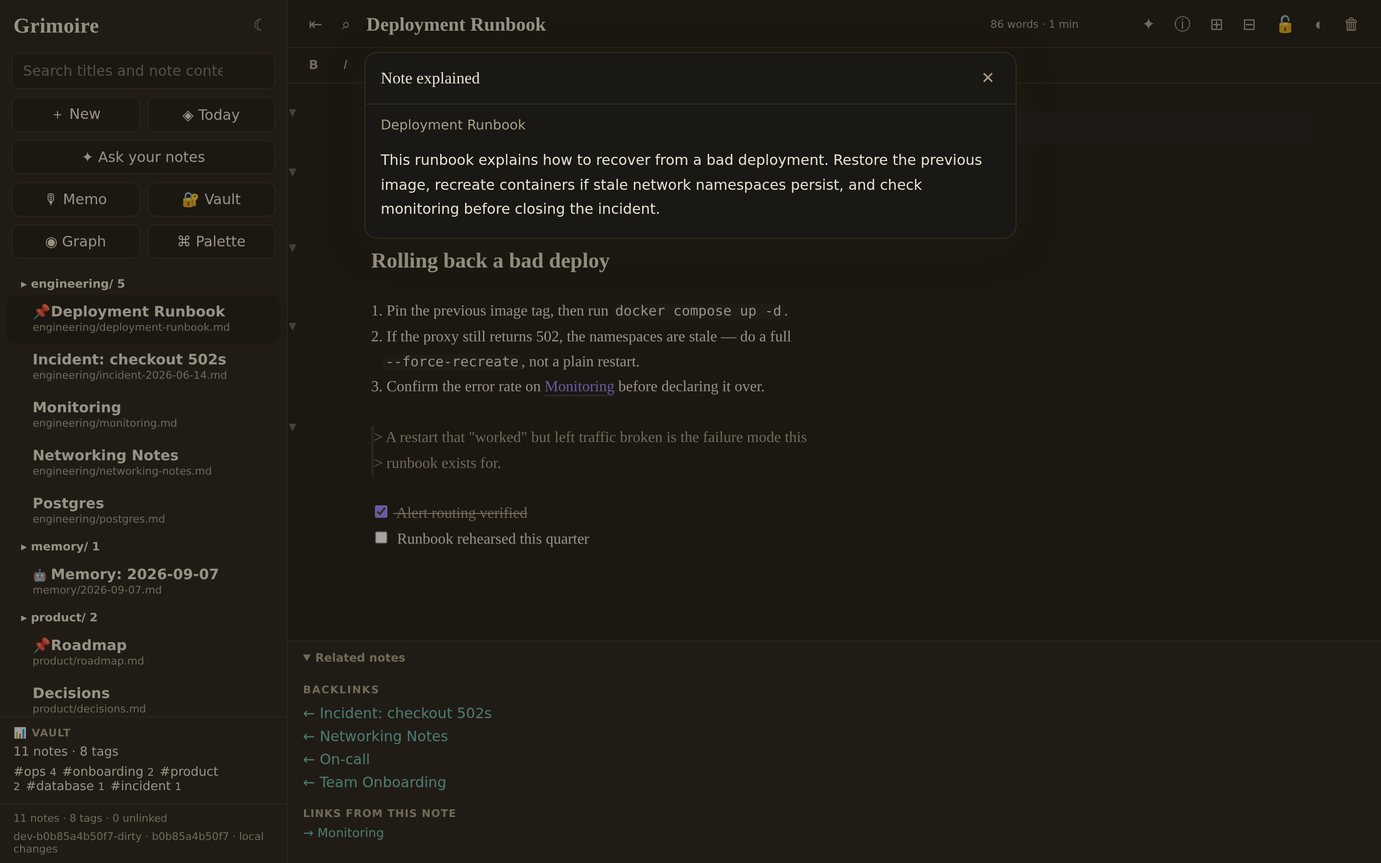
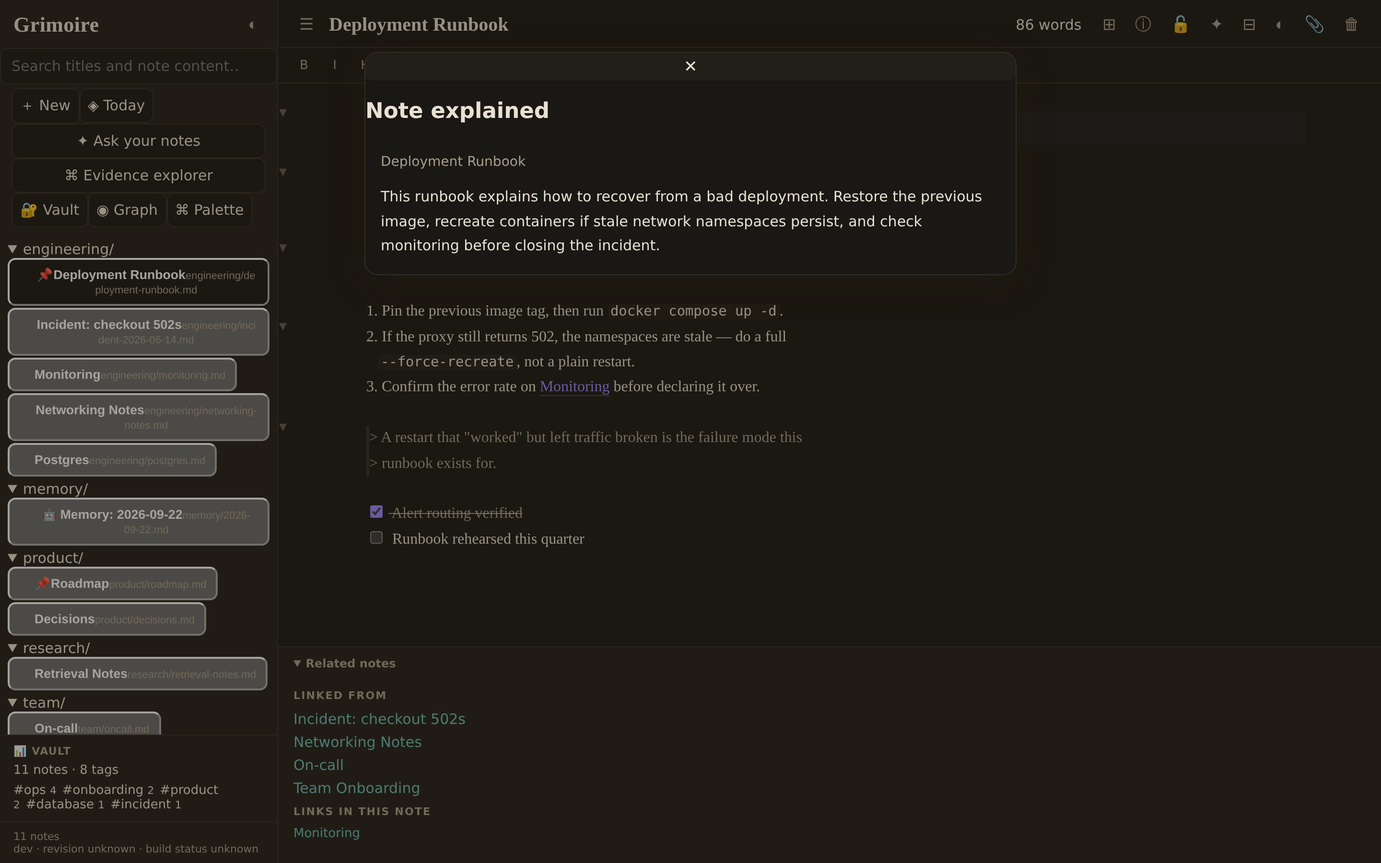
Publish the workspace refresh the live console has run since September 14
The refreshed sidebar (Workspace and Notes sections, Ctrl K on the
commands button, folder headings), the empty state, and the accessible
names on the search, list, rows and theme control existed only as an
uncommitted working copy while the deployed build already served them.
Ported onto main as they were, with the style test that came with them.

The release job now installs poppler-utils before the suite, as CI does;
the document extractor's PDF test needs pdftotext.

diff --git a/frontend/src/main.tsx b/frontend/src/main.tsx
@@ -9,6 +9,7 @@ import { KnowledgeExplorer } from './knowledge';
 import type { Canvas, Graph, Identity, JsonValue, KnowledgeGraph, KnowledgeNode, KnowledgeQueryResult, KnowledgeSource, Note, NoteListItem, SearchHit, Task, DocumentRecord } from './types';
 import '../../web/style.css';
 import './react.css';
+import './workspace.css';
 import {useNoteDocument} from './useNoteDocument';
 import {LiveEditor,type LiveAdapter} from './LiveEditor';
 import {Markdown as RichMarkdown} from './Markdown';
@@ -181,20 +182,20 @@ function App() {
   const deleteNote = async () => { if (!active) return; if(!await save())return; const r = await api.request<{ trashed: string }>(`/notes/${noteURLPath(active.path)}`, { method: 'DELETE' }); setActive(undefined); await refresh(); setError('Moved to trash'); setDeleted(r.trashed); };
   const askNotes = async (question: string, includePrivate: boolean) => api.request<{ answer: string; citations: { path: string; title: string; score?: number }[] }>('/ask', { method: 'POST', body: { q: question, include_private: includePrivate } });
   const runAiAction = async (action: string, text: string) => api.request<{ result?: string | string[]; error?: string }>('/actions', { method: 'POST', body: { action, text } });
-  const renderRows = (items: NoteListItem[]) => { const folders = new Map<string, NoteListItem[]>(); for (const n of items) { const f = n.path.includes('/') ? n.path.split('/')[0]! : ''; folders.set(f, [...(folders.get(f) || []), n]); } return [...folders].sort(([a], [b]) => a.localeCompare(b)).map(([folder, ns]) => folder ? <details className="folder" key={folder} open><summary>{folder}/</summary>{ns.map(n => <NoteRow n={n} key={n.path} active={active?.path === n.path} keyboard={visible[kbdIndex]?.path===n.path} open={open} split={path=>void api.note(path).then(setSplit).catch(e=>setError(String(e)))} context={setContextPath} />)}</details> : <div key="root">{ns.map(n => <NoteRow n={n} key={n.path} active={active?.path === n.path} keyboard={visible[kbdIndex]?.path===n.path} open={open} split={path=>void api.note(path).then(setSplit).catch(e=>setError(String(e)))} context={setContextPath} />)}</div>); };
+  const renderRows = (items: NoteListItem[]) => { const folders = new Map<string, NoteListItem[]>(); for (const n of items) { const f = n.path.includes('/') ? n.path.split('/')[0]! : ''; folders.set(f, [...(folders.get(f) || []), n]); } return [...folders].sort(([a], [b]) => a.localeCompare(b)).map(([folder, ns]) => folder ? <details className="folder" key={folder} open><summary className="folder-head">{folder}</summary>{ns.map(n => <NoteRow n={n} key={n.path} active={active?.path === n.path} keyboard={visible[kbdIndex]?.path===n.path} open={open} split={path=>void api.note(path).then(setSplit).catch(e=>setError(String(e)))} context={setContextPath} />)}</details> : <div key="root">{ns.map(n => <NoteRow n={n} key={n.path} active={active?.path === n.path} keyboard={visible[kbdIndex]?.path===n.path} open={open} split={path=>void api.note(path).then(setSplit).catch(e=>setError(String(e)))} context={setContextPath} />)}</div>); };
   if (identity?.anonymous) return <Login done={() => void api.me().then(me=>{setIdentity(me);void refresh();if(dirtyRef.current)void save();})} />;
   return <div id="app" className={'react-app'+(split?' split':'')+(sidebarCollapsed?' sidebar-collapsed':'')+(zen?' zen':'')} style={{'--side-w':sideWidth+'px','--main-w':mainWidth?mainWidth+'px':'1fr'} as React.CSSProperties}>{zen&&<button id="zen-exit" onClick={()=>setZen(false)}>Exit focus mode</button>}
-    <aside id="sidebar" className={mobileNav ? 'open' : ''}><header id="side-head"><h1>Grimoire</h1>{identity?.multi_user && <><span className="signin-who">{identity.name}</span><button id="signout" className="icon" aria-label="Sign out" onClick={() => void api.logout().then(() => api.me()).then(setIdentity).catch(e => setError(String(e)))}>⇥</button></>}<button id="menu-close" className="icon" aria-label="Close menu" onClick={() => setMobileNav(false)}>✕</button><button id="theme-toggle" className="icon" onClick={() => { const current = document.documentElement.dataset.theme; const next = current === 'light' ? 'dark' : current === 'dark' ? '' : 'light'; if (next) { document.documentElement.dataset.theme = next; localStorage.setItem('grimoire-theme', next); } else { delete document.documentElement.dataset.theme; localStorage.removeItem('grimoire-theme'); } }}>◐</button></header>
-      <div className="note-search"><input id="search" onKeyDown={e=>{if(e.key==='Escape'&&query){e.preventDefault();setQuery('');setKbdIndex(-1);return;}if(e.key==='Enter'&&visible.length){e.preventDefault();void open(visible[Math.max(0,kbdIndex)]!.path);}if(e.key==='ArrowDown'||e.key==='ArrowUp'){e.preventDefault();setKbdIndex(index=>Math.max(0,Math.min(visible.length-1,index+(e.key==='ArrowDown'?1:-1))));}}} value={query} onChange={e => {setKbdIndex(-1);setQuery(e.target.value);}} placeholder="Search titles and note content…" /><button id="search-clear" hidden={!query} onClick={() => setQuery('')}>✕</button></div>
-      <div className="side-actions"><button id="new-note" className="btn" onClick={() => setPanel('new')}>＋ New</button><button id="daily" className="btn" onClick={() => void openDaily()}>◈ Today</button><button id="ask-open" className="btn full" onClick={() => setPanel('ask')}>✦ Ask your notes</button><button id="knowledge-open" className="btn full" onClick={() => void openKnowledge()}>⌘ Evidence explorer</button><button id="vault-open" className="btn" onClick={() => setPanel('vault')}>🔐 Vault</button><button id="graph-open" className="btn" onClick={() => void openGraph()}>◉ Graph</button><button id="palette-open" className="btn" onClick={openPalette}>⌘ Palette</button></div>
-      {tagFilter && <div id="tag-filter-bar">#{tagFilter} <button id="clear-tag" onClick={() => setTagFilter('')}>Clear</button></div>}<nav id="note-list" onKeyDown={e=>{const rows=Array.from(e.currentTarget.querySelectorAll<HTMLButtonElement>('.note-row'));const index=rows.indexOf(e.target as HTMLButtonElement);if(e.key==='ArrowDown'||e.key==='ArrowUp'){e.preventDefault();rows[Math.max(0,Math.min(rows.length-1,index+(e.key==='ArrowDown'?1:-1)))]?.focus();}}}>{renderRows(visible)}</nav><PluginRuntime request={api.request} open={openWithPluginEvent} currentNote={() => { const note=activeRef.current; return note ? {path:note.path,title:note.title,body:note.body} : null; }} insertText={insertPluginText} toast={(message) => setError(message)} /><footer id="side-foot"><span id="stat">{notes.length} notes</span><div id="running-build">{buildLabel}</div></footer>
+    <aside id="sidebar" className={mobileNav ? 'open' : ''}><header id="side-head"><h1>Grimoire</h1>{identity?.multi_user && <><span className="signin-who">{identity.name}</span><button id="signout" className="icon" aria-label="Sign out" onClick={() => void api.logout().then(() => api.me()).then(setIdentity).catch(e => setError(String(e)))}>⇥</button></>}<button id="menu-close" className="icon" aria-label="Close menu" onClick={() => setMobileNav(false)}>✕</button><button id="theme-toggle" className="icon" aria-label="Change color theme" title="Change color theme" onClick={() => { const current = document.documentElement.dataset.theme; const next = current === 'light' ? 'dark' : current === 'dark' ? '' : 'light'; if (next) { document.documentElement.dataset.theme = next; localStorage.setItem('grimoire-theme', next); } else { delete document.documentElement.dataset.theme; localStorage.removeItem('grimoire-theme'); } }}>◐</button></header>
+      <div className="note-search"><input id="search" aria-label="Search notes" onKeyDown={e=>{if(e.key==='Escape'&&query){e.preventDefault();setQuery('');setKbdIndex(-1);return;}if(e.key==='Enter'&&visible.length){e.preventDefault();void open(visible[Math.max(0,kbdIndex)]!.path);}if(e.key==='ArrowDown'||e.key==='ArrowUp'){e.preventDefault();setKbdIndex(index=>Math.max(0,Math.min(visible.length-1,index+(e.key==='ArrowDown'?1:-1))));}}} value={query} onChange={e => {setKbdIndex(-1);setQuery(e.target.value);}} placeholder="Search titles and note content…" /><button id="search-clear" hidden={!query} onClick={() => setQuery('')}>✕</button></div>
+      <div className="side-actions"><div className="quick-actions"><button id="new-note" className="btn" onClick={() => setPanel('new')}>＋ New</button><button id="daily" className="btn" onClick={() => void openDaily()}>◈ Today</button></div><div className="workspace-label">Workspace</div><button id="ask-open" className="btn full" onClick={() => setPanel('ask')}>✦ Ask your notes</button><button id="knowledge-open" className="btn full" onClick={() => void openKnowledge()}>⌘ Evidence explorer</button><button id="vault-open" className="btn" onClick={() => setPanel('vault')}>◇ Vault</button><button id="graph-open" className="btn" onClick={() => void openGraph()}>◉ Graph</button><button id="palette-open" className="btn" onClick={openPalette}>⌘ Commands <kbd>Ctrl K</kbd></button></div><div className="library-heading"><span>{query ? "Search results" : "Notes"}</span><span>{visible.length}</span></div>
+      {tagFilter && <div id="tag-filter-bar">#{tagFilter} <button id="clear-tag" onClick={() => setTagFilter('')}>Clear</button></div>}<nav aria-label="Notes" id="note-list" onKeyDown={e=>{const rows=Array.from(e.currentTarget.querySelectorAll<HTMLButtonElement>('.note-row'));const index=rows.indexOf(e.target as HTMLButtonElement);if(e.key==='ArrowDown'||e.key==='ArrowUp'){e.preventDefault();rows[Math.max(0,Math.min(rows.length-1,index+(e.key==='ArrowDown'?1:-1)))]?.focus();}}}>{renderRows(visible)}</nav><PluginRuntime request={api.request} open={openWithPluginEvent} currentNote={() => { const note=activeRef.current; return note ? {path:note.path,title:note.title,body:note.body} : null; }} insertText={insertPluginText} toast={(message) => setError(message)} /><footer id="side-foot"><span id="stat">{notes.length} notes</span><div id="running-build">{buildLabel}</div></footer>
       {contextPath && <div id="ctx-menu" className="menu"><button className="mi" onClick={() => void api.request<Note>(`/notes/${noteURLPath(contextPath)}/duplicate`, { method: 'POST' }).then(n => { setContextPath(undefined); void refresh(); void open(n.path); })}>Duplicate</button><button className="mi" onClick={() => { setForm({ kind: 'rename', value: display(notes.find(n => n.path === contextPath) || { path: contextPath, title: '', updated: '', private: false, pinned: false }), path: contextPath }); setContextPath(undefined); }}>Rename</button><button className="mi" onClick={() => { setContextPath(undefined); void api.request(`/notes/${noteURLPath(contextPath)}`, { method: 'DELETE' }).then(refresh); }}>Delete</button></div>}
       <ResizeHandle id="sidebar-resize" value={()=>sideWidth} onChange={width=>{const value=Math.max(220,Math.min(520,width));setSideWidth(value);localStorage.setItem('grimoire-side-width',String(value));}}/>
     </aside>
     <main id="editor"><header id="ed-head"><button id="sidebar-toggle" className="icon" aria-label="Toggle sidebar" onClick={toggleSidebar}>☰</button><button id="menu-open" className="icon" aria-label="Open menu" onClick={() => setMobileNav(true)}>☰</button><input id="title" value={active?.title || ''} onChange={e => edit({ title: e.target.value })} placeholder="Untitled" disabled={!active || active.locked} /><span id="wordcount">{active ? `${active.body.trim() ? active.body.trim().split(/\s+/).length : 0} words` : ''}</span><span id="save-state">{saveState}</span><button id="split-btn" className="icon" onClick={() => active && !matchMedia('(max-width:780px)').matches && setSplit(structuredClone(active))}>⊞</button><button id="props-btn" className="icon" title="Note properties" disabled={!active||active.locked} onClick={()=>setPanel('properties')}>ⓘ</button><button id="private-toggle" className={'icon'+(active?.private ? ' on' : '')} title={active?.private ? 'private (hidden from AI)' : 'make private'} disabled={!active || active.locked} onClick={() => { if (active) { edit({ private: !active.private, frontmatter: { ...active.frontmatter, private: !active.private } }); void save(); } }}>{active?.private ? '🔒' : '🔓'}</button><AiActions notePath={active?.path || ''} locked={!!active?.locked} onError={setError} title={active?.title || ''} body={active?.body || ''} request={runAiAction} insert={text => edit({ body: (activeRef.current?.body || '').replace(/\n+$/, '') + text })}/><button id="outline-btn" className="icon" onClick={() => setOutline(!outline)}>⊟</button><button id="preview-toggle" className="icon" onClick={() => setPreview(!preview)}>◐</button><button className="icon" onClick={() => fileRef.current?.click()}>📎</button><input ref={fileRef} type="file" hidden onChange={e => void upload(e.target.files?.[0])} /><button id="delete-note" className="icon danger" onClick={() => setForm({kind:'delete',value:''})}>🗑</button></header>
       {active?.trust==='untrusted'?<div id="provenance" className="untrusted">⚠ <b>untrusted source</b> — pulled from <code>{active.origin||'an unknown source'}</code>. Agents read this as data, never as instructions. · <button id="prov-vouch" onClick={()=>setVouchPath(active.path)}>I have read this — mark it trusted</button></div>:active&&(active.path.startsWith('memory/')||active.frontmatter.memory)?<div id="provenance">🤖 <b>agent memory</b> — last written by <code>{String(active.frontmatter.agent||'unknown')}</code>{active.frontmatter.task&&<> (task <code>{String(active.frontmatter.task)}</code>)</>} · every entry is editable — <button id="prov-history" onClick={()=>void openHistory()}>history &amp; rollback</button></div>:<div id="provenance" hidden/>}
       <div id="ed-toolbar">{[['bold','B'],['italic','I'],['heading','H'],['task','☑'],['link','↗']].map(([kind,label]) => <button className="tb" data-md={kind} key={kind} onMouseDown={e=>e.preventDefault()} onClick={() => format(kind!)}>{label}</button>)}</div>
-      {active ? <><FindBar body={active.body} open={findOpen} onClose={()=>setFindOpen(false)} onEdit={body=>edit({body})} onSelect={(from,to)=>{if(liveRef.current){liveRef.current.view.dispatch({selection:{anchor:from,head:to}});liveRef.current.focus();}else{contentRef.current?.focus();contentRef.current?.setSelectionRange(from,to);}}}/>{outline && <div id="outline">{lines(active.body).map((line, i) => ({ line, i })).filter(x => /^#{1,3}\s/.test(x.line)).map(x => <button className="mi" data-line={x.i} key={x.i} onClick={() => { setOutline(false); contentRef.current?.focus(); if (contentRef.current) { const pos = lines(active.body).slice(0, x.i).join('\n').length + (x.i ? 1 : 0); contentRef.current.selectionStart = contentRef.current.selectionEnd = pos; } }}>{x.line.replace(/^#+\s*/, '')}</button>)}</div>}<HoverPreview note={api.note} onError={setError}><div id="ed-body"><textarea ref={contentRef} id="content" value={active.locked ? '🔒 This note is encrypted at rest.' : active.body} onChange={e => contentChange(e.target.value)} onKeyDown={editorKey} readOnly={active.locked} placeholder="Write in markdown." /><LiveEditor key={active.path} value={active.body} readOnly={active.locked} adapterRef={liveRef} callbacks={{onChange:contentChange,onSave:()=>void save(),onOpenLink:(path,options)=>{if(options?.split)void api.note(path).then(setSplit).catch(e=>setError(String(e)));else void open(path);},onTagClick:setTagFilter,getLinkCompletions:q=>notes.filter(n=>display(n).toLowerCase().includes(q.toLowerCase())).slice(0,20).map(display),getTagCompletions:q=>tags.filter(t=>t.toLowerCase().startsWith(q.toLowerCase())),getSlashCommands:q=>[{name:'date',insert:new Date().toISOString().slice(0,10)},{name:'task',insert:'- [ ] '},{name:'heading',insert:'# '},{name:'table',insert:'| A | B |\n|---|---|\n|  |  |\n'},{name:'callout',insert:'> [!note] Title\n> body\n'},{name:'query',insert:'```query\ntag: \n```\n'},{name:'footnote',insert:'[^1]\n\n[^1]: '},{name:'hr',insert:'\n---\n'},...pluginContrib.snippets.map(s=>({name:s.name,detail:s.detail,insert:typeof s.insert==='function'?s.insert():s.insert}))].filter(s=>s.name.startsWith(q)),onFiles:files=>{for(const file of files)void upload(file);}}}/>{completion && <div id="complete"><button className="c" onClick={() => { contentChange(active.body.replace(/#[A-Za-z][\w/-]*$/, '#' + completion)); setCompletion(''); }}>{completion}</button></div>}{preview && <section id="preview"><Markdown body={active.body} notes={notes} open={open} tag={setTagFilter} toggleTask={line => { const next = lines(active.body); next[line] = next[line]!.replace(/\[([ xX])\]/, (_, x: string) => x.toLowerCase() === 'x' ? '[ ]' : '[x]'); edit({ body: next.join('\n') }); }} /></section>}</div></HoverPreview></> : <div id="ed-body"><p>Choose a note or create one.</p></div>}<RelatedNotes note={active} open={open}/>
+      {active ? <><FindBar body={active.body} open={findOpen} onClose={()=>setFindOpen(false)} onEdit={body=>edit({body})} onSelect={(from,to)=>{if(liveRef.current){liveRef.current.view.dispatch({selection:{anchor:from,head:to}});liveRef.current.focus();}else{contentRef.current?.focus();contentRef.current?.setSelectionRange(from,to);}}}/>{outline && <div id="outline">{lines(active.body).map((line, i) => ({ line, i })).filter(x => /^#{1,3}\s/.test(x.line)).map(x => <button className="mi" data-line={x.i} key={x.i} onClick={() => { setOutline(false); contentRef.current?.focus(); if (contentRef.current) { const pos = lines(active.body).slice(0, x.i).join('\n').length + (x.i ? 1 : 0); contentRef.current.selectionStart = contentRef.current.selectionEnd = pos; } }}>{x.line.replace(/^#+\s*/, '')}</button>)}</div>}<HoverPreview note={api.note} onError={setError}><div id="ed-body"><textarea ref={contentRef} id="content" value={active.locked ? '🔒 This note is encrypted at rest.' : active.body} onChange={e => contentChange(e.target.value)} onKeyDown={editorKey} readOnly={active.locked} placeholder="Write in markdown." /><LiveEditor key={active.path} value={active.body} readOnly={active.locked} adapterRef={liveRef} callbacks={{onChange:contentChange,onSave:()=>void save(),onOpenLink:(path,options)=>{if(options?.split)void api.note(path).then(setSplit).catch(e=>setError(String(e)));else void open(path);},onTagClick:setTagFilter,getLinkCompletions:q=>notes.filter(n=>display(n).toLowerCase().includes(q.toLowerCase())).slice(0,20).map(display),getTagCompletions:q=>tags.filter(t=>t.toLowerCase().startsWith(q.toLowerCase())),getSlashCommands:q=>[{name:'date',insert:new Date().toISOString().slice(0,10)},{name:'task',insert:'- [ ] '},{name:'heading',insert:'# '},{name:'table',insert:'| A | B |\n|---|---|\n|  |  |\n'},{name:'callout',insert:'> [!note] Title\n> body\n'},{name:'query',insert:'```query\ntag: \n```\n'},{name:'footnote',insert:'[^1]\n\n[^1]: '},{name:'hr',insert:'\n---\n'},...pluginContrib.snippets.map(s=>({name:s.name,detail:s.detail,insert:typeof s.insert==='function'?s.insert():s.insert}))].filter(s=>s.name.startsWith(q)),onFiles:files=>{for(const file of files)void upload(file);}}}/>{completion && <div id="complete"><button className="c" onClick={() => { contentChange(active.body.replace(/#[A-Za-z][\w/-]*$/, '#' + completion)); setCompletion(''); }}>{completion}</button></div>}{preview && <section id="preview"><Markdown body={active.body} notes={notes} open={open} tag={setTagFilter} toggleTask={line => { const next = lines(active.body); next[line] = next[line]!.replace(/\[([ xX])\]/, (_, x: string) => x.toLowerCase() === 'x' ? '[ ]' : '[x]'); edit({ body: next.join('\n') }); }} /></section>}</div></HoverPreview></> : <div id="ed-body" className="workspace-empty"><div><span className="empty-mark" aria-hidden="true">✧</span><h2>A little space to think.</h2><p>Choose a note from your library, or start with a fresh page.</p><div className="empty-actions"><button className="btn" onClick={() => setPanel('new')}>＋ Create a note</button><button className="btn" onClick={openPalette}>Search & commands</button></div><small>Write, connect ideas, and ask your notes.</small></div></div>}<RelatedNotes note={active} open={open}/>
       {error && <p role="alert">{error}</p>}{deleted&&<button className="toast-btn" onClick={()=>void api.request<Note>(`/trash/${deleted}/restore`,{method:'POST'}).then(n=>{setDeleted(undefined);setError('Restored');setActive(n);void refresh();}).catch(e=>setError(String(e)))}>Undo delete</button>}
     </main>
     {composition&&<NoteComposer operation={composition} api={api} notes={notes} save={save} edit={edit} refresh={refresh} open={open} close={()=>setComposition(undefined)}/>}
@@ -227,7 +228,7 @@ function App() {
   </div>;
 }
 
-function NoteRow({ n, active, keyboard, open, split, context }: { n: NoteListItem; active: boolean; keyboard?:boolean; split?:(path:string)=>void; open: (path: string) => void; context: (path: string) => void }) { return <button data-path={n.path} className={'note-row ' + (active ? 'active' : '')+(keyboard?' kbd-sel':'')} onClick={event=>{if((event.ctrlKey||event.metaKey)&&split&&!matchMedia('(max-width:780px)').matches)split(n.path);else void open(n.path);}} onContextMenu={e => { e.preventDefault(); context(n.path); }}><span className="t">{n.pinned && <span className="pin">📌</span>}{n.path.startsWith('memory/') && <span className="mem-badge">🤖</span>}{n.untrusted && <span className="untrusted-badge">⚠</span>}{display(n)}</span><span className="m">{n.path}</span></button>; }
+function NoteRow({ n, active, keyboard, open, split, context }: { n: NoteListItem; active: boolean; keyboard?:boolean; split?:(path:string)=>void; open: (path: string) => void; context: (path: string) => void }) { return <button aria-current={active ? "page" : undefined} title={n.path} data-path={n.path} className={'note-row ' + (active ? 'active' : '')+(keyboard?' kbd-sel':'')} onClick={event=>{if((event.ctrlKey||event.metaKey)&&split&&!matchMedia('(max-width:780px)').matches)split(n.path);else void open(n.path);}} onContextMenu={e => { e.preventDefault(); context(n.path); }}><span className="t">{n.pinned && <span className="pin">📌</span>}{n.path.startsWith('memory/') && <span className="mem-badge">🤖</span>}{n.untrusted && <span className="untrusted-badge">⚠</span>}{display(n)}</span><span className="m">{n.path}</span></button>; }
 function Modal({ id, close, children }: { id: string; close: () => void; children: React.ReactNode }) { return <div id={id} className="modal" role="dialog" onMouseDown={e => e.currentTarget === e.target && close()}><div className="modal-box"><button className="icon modal-close" onClick={close}>✕</button>{children}</div></div>; }
 function KnowledgePanel({ graph, result, close, open, onGraph, onResult }: { graph?: KnowledgeGraph; result?: KnowledgeQueryResult; close: () => void; open: (path: string) => void; onGraph: (graph: KnowledgeGraph) => void; onResult: (result: KnowledgeQueryResult | undefined) => void }) {
   const [question, setQuestion] = useState(''); const [relation, setRelation] = useState(''); const [seed, setSeed] = useState(''); const [after, setAfter] = useState(''); const [before, setBefore] = useState(''); const [depth, setDepth] = useState(2); const [minDegree, setMinDegree] = useState(0); const [showDocuments, setShowDocuments] = useState(true); const [dropNoisy, setDropNoisy] = useState(false); const [showChunks, setShowChunks] = useState(false); const [mode, setMode] = useState<'2d' | '3d'>('2d'); const [selected, setSelected] = useState<string>(); const [source, setSource] = useState<KnowledgeSource>(); const [docs, setDocs] = useState<DocumentRecord[]>([]); const [busy, setBusy] = useState(false); const [message, setMessage] = useState(''); const file = useRef<HTMLInputElement>(null);

diff --git a/frontend/src/workspace.css b/frontend/src/workspace.css
@@ -1,0 +1,104 @@
+/* React workspace: explicit control styles avoid native button chrome on note rows. */
+:root {
+  color-scheme: light;
+  --paper: #ffffff;
+  --paper2: #f5f6f8;
+  --ink: #252936;
+  --ink-soft: #687181;
+  --line: #e4e7ed;
+  --accent: #6455ce;
+  --link: #4862ad;
+  --selection: #eceafa;
+  --hover: #eceef3;
+  --shadow: 0 8px 32px #18203914;
+}
+@media (prefers-color-scheme: dark) {
+  :root:not([data-theme="light"]) {
+    color-scheme: dark;
+    --paper: #191b22; --paper2: #14161c; --ink: #e2e5ee;
+    --ink-soft: #959eaf; --line: #2b303b; --accent: #b0a4f6;
+    --link: #a2b5ef; --selection: #302c46; --hover: #222630;
+    --shadow: 0 8px 32px #0004;
+  }
+}
+:root[data-theme="dark"] {
+  color-scheme: dark;
+  --paper: #191b22; --paper2: #14161c; --ink: #e2e5ee;
+  --ink-soft: #959eaf; --line: #2b303b; --accent: #b0a4f6;
+  --link: #a2b5ef; --selection: #302c46; --hover: #222630;
+  --shadow: 0 8px 32px #0004;
+}
+.react-app { font-size: 14px; }
+.react-app button { font-family: var(--sans); cursor: pointer; }
+.react-app button:disabled { cursor: default; opacity: .5; }
+.react-app #side-head { padding: 20px 18px 16px; gap: 8px; }
+.react-app #side-head h1 { font: 650 20px/1.3 var(--sans); letter-spacing: -.7px; flex: 1; }
+.react-app #side-head h1::before { content: '✧'; color: var(--accent); margin-right: 9px; }
+.react-app .note-search { margin: 0 14px 12px; }
+.react-app #search { font-size: 12px; padding: 10px 30px 10px 12px; border-radius: 7px; }
+.react-app .side-actions { display: grid; gap: 3px; padding: 0 14px 14px; }
+.quick-actions { display: grid; grid-template-columns: 1fr 1fr; gap: 8px; margin-bottom: 16px; }
+.react-app .btn { font-size: 13px; min-height: 36px; box-shadow: none; }
+.react-app #new-note { background: var(--accent); color: var(--paper); border-color: transparent; font-weight: 600; }
+.react-app .side-actions > .btn { background: transparent; border: 0; text-align: left; padding: 8px 10px; min-height: 34px; color: var(--ink-soft); }
+.react-app .side-actions > .btn:hover { background: var(--hover); color: var(--ink); }
+.workspace-label, .library-heading { font-size: 10px; font-weight: 650; text-transform: uppercase; letter-spacing: .1em; color: var(--ink-soft); }
+.workspace-label { padding: 0 10px 6px; }
+.library-heading { display: flex; justify-content: space-between; padding: 13px 24px 8px; border-top: 1px solid var(--line); }
+.react-app kbd { float: right; font: 10px var(--sans); border: 1px solid var(--line); border-radius: 4px; padding: 2px 5px; }
+.react-app #note-list { padding: 0 12px 12px; overflow-x: hidden; scrollbar-width: thin; }
+.react-app .note-row {
+  appearance: none; display: block; width: 100%; min-width: 0; text-align: left;
+  border: 0; border-radius: 6px; box-shadow: none; background: transparent;
+  color: var(--ink); font: 13px/1.4 var(--sans); padding: 10px 12px; margin: 1px 0;
+}
+.react-app .note-row .t, .react-app .note-row .m { display: block; overflow: hidden; text-overflow: ellipsis; white-space: nowrap; }
+.react-app .note-row .t { font-weight: 500; }
+.react-app .note-row .m { font-size: 10px; margin-top: 4px; opacity: .85; }
+.react-app .note-row:hover { background: var(--hover); }
+.react-app .note-row.active { background: var(--selection); color: var(--accent); box-shadow: none; }
+.react-app .note-row.active .t { font-weight: 650; }
+.react-app .note-row:focus-visible, .react-app .note-row.kbd-sel { outline: 2px solid var(--accent); outline-offset: -2px; box-shadow: none; }
+.react-app .folder-head { padding: 12px 10px 6px; font-size: 11px; color: var(--ink-soft); }
+.react-app .folder-head::before { content: '›'; display: inline-block; margin-right: 8px; }
+.react-app details[open] > .folder-head::before { transform: rotate(90deg); }
+.react-app #side-foot { padding: 12px 18px; font-size: 10px; }
+.react-app #running-build { margin-top: 4px; font-size: 9px; opacity: .65; overflow-wrap: anywhere; }
+.react-app #ed-head { min-height: 64px; padding: 12px 24px; gap: 10px; }
+.react-app #title { font: 550 16px/1.4 var(--sans); min-width: 0; }
+.react-app .icon { min-width: 30px; min-height: 30px; font-size: 15px; }
+.react-app #ed-toolbar { padding: 7px 24px; gap: 6px; background: var(--paper); }
+.react-app #content, .react-app #preview { padding: 32px clamp(24px, 6vw, 96px); }
+.react-app #live-editor .cm-content { padding: 32px 0; }
+.react-app #live-editor .cm-scroller { padding: 0 clamp(24px, 6vw, 96px); }
+.react-app .md { font-size: 15px; line-height: 1.8; }
+.react-app #note-connections { background: var(--paper); border-top: 1px solid var(--line); }
+.react-app #note-connections > summary { padding: 12px 24px; font-size: 11px; color: var(--ink-soft); }
+.workspace-empty { display: grid; place-items: center; padding: 32px; text-align: center; }
+.workspace-empty > div { max-width: 420px; margin-top: -6vh; }
+.empty-mark { font-size: 48px; color: var(--accent); }
+.workspace-empty h2 { font-size: 26px; font-weight: 550; letter-spacing: -.7px; margin: 20px 0 12px; }
+.workspace-empty p { color: var(--ink-soft); line-height: 1.7; }
+.empty-actions { display: flex; gap: 10px; margin: 26px 0 20px; }
+.workspace-empty small { color: var(--ink-soft); font-size: 11px; }
+.react-app .modal-box { border: 1px solid var(--line); border-radius: 12px; box-shadow: var(--shadow); }
+@media (max-width: 780px) {
+  .react-app #ed-head { min-height: 56px; padding: 8px 12px; gap: 4px; }
+  .react-app #ed-toolbar { padding: 6px 12px; }
+  .react-app #side-head { padding-top: calc(16px + env(safe-area-inset-top)); }
+  .react-app #content, .react-app #preview { padding: 22px 18px; }
+  .react-app #live-editor .cm-scroller { padding: 0 18px; }
+  .react-app .note-row { min-height: 48px; }
+  .react-app .side-actions > .btn { min-height: 38px; }
+  .workspace-empty { padding: 24px; }
+  .workspace-empty h2 { font-size: 23px; }
+}
+.react-app #live-editor .cm-editor, .react-app #live-editor .cm-scroller { font-family: var(--sans); font-size: 15px; line-height: 1.8; }
+.react-app .gr-h { font-weight: 650; letter-spacing: -.025em; }
+.react-app .md h1, .react-app .md h2, .react-app .md h3 { font-family: var(--sans); letter-spacing: -.025em; }
+@media (max-width: 780px) {
+  .react-app #wordcount { display: none; }
+}
+.react-app #search-clear { appearance: none; border: 0; background: transparent; color: var(--ink-soft); border-radius: 5px; right: 5px; top: 5px; width: 26px; height: 26px; }
+.react-app #search-clear:hover { background: var(--hover); }
+.react-app #wordcount, .react-app #save-state { font-size: 11px; color: var(--ink-soft); }

diff --git a/tests/e2e/test_workspace_style.py b/tests/e2e/test_workspace_style.py
@@ -1,0 +1,36 @@
+"""Regression: semantic note buttons must not inherit native bright borders."""
+import pytest
+from playwright.sync_api import expect
+
+
+@pytest.mark.parametrize('theme', ['light', 'dark'])
+def test_note_rows_are_contained_and_keyboard_accessible(page, server, theme):
+    title = 'Workspace visual regression with a deliberately long note title ' * 3
+    path = f'workspace-{theme}.md'
+    response = page.request.post(server + '/api/notes', data={
+        'path': path, 'title': title, 'body': '# Workspace\n\nA quiet place to write.',
+    })
+    assert response.ok
+    page.add_init_script(f"localStorage.setItem('grimoire-theme', '{theme}')")
+    page.goto(server + '/#' + path)
+    page.wait_for_selector('body[data-ready]')
+    row = page.locator(f'.note-row[data-path="{path}"]')
+    expect(row).to_have_attribute('aria-current', 'page')
+    styles = row.evaluate('''el => {
+      const s = getComputedStyle(el), box = el.getBoundingClientRect();
+      const list = document.querySelector('#note-list').getBoundingClientRect();
+      return {border: s.borderTopWidth, shadow: s.boxShadow,
+        contained: box.left >= list.left && box.right <= list.right,
+        titleTruncated: el.querySelector('.t').scrollWidth > el.querySelector('.t').clientWidth};
+    }''')
+    assert styles == {'border': '0px', 'shadow': 'none', 'contained': True, 'titleTruncated': True}
+    row.focus()
+    expect(row).to_be_focused()
+    assert row.evaluate("el => getComputedStyle(el).outlineStyle") != 'none'
+    page.set_viewport_size({'width': 390, 'height': 844})
+    page.locator('#menu-open').click()
+    page.locator('#search').fill(title[:30])
+    row.click()
+    expect(page.locator('#sidebar')).not_to_have_class('open')
+    expect(page.locator('#title')).to_have_value(title.strip())
+    assert page.evaluate('document.documentElement.scrollWidth <= innerWidth')

diff --git a/tools/screenshots.py b/tools/screenshots.py
@@ -306,6 +306,9 @@ def capture(base: str):
         page.keyboard.press("Enter")
         page.wait_for_timeout(900)
         shot(page, "agent-memory.png")
+        # The memory view may leave a dialog open; the palette is behind it.
+        page.keyboard.press("Escape")
+        page.wait_for_timeout(300)
 
         # Retrieval inspection uses the same accessible form panel as other actions.
         page.click("#palette-open")
